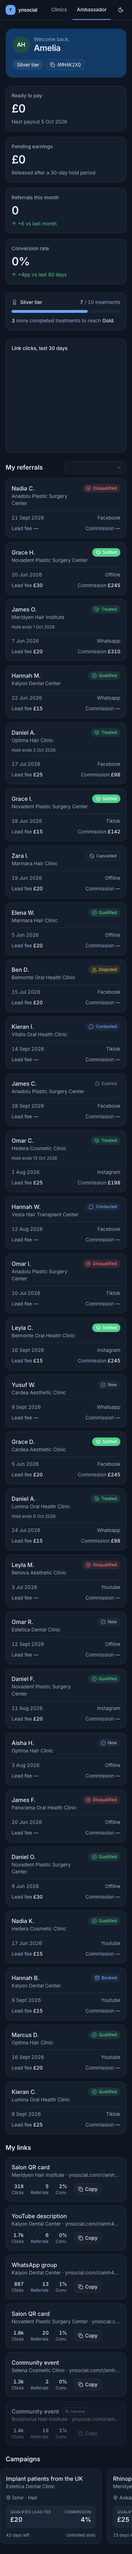
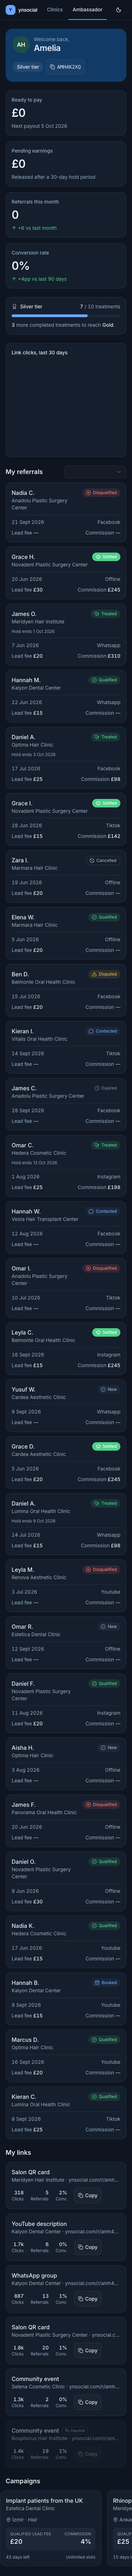
Compliance pass: 44px touch targets, press feedback, shadow levels
Went back through docs/02-TASARIM-YONU.md's mobile/accessibility tables
line by line against the actual code instead of trusting memory. Fixed:

- Touch targets under 44px: the shared Button component's sm/default/icon
  sizes were shadcn's stock 32-36px. Now 44px below the sm (640px)
  breakpoint, back to the tighter desktop scale above it. Pagination's
  page-number buttons and the view-mode toggle (raw buttons, not the
  shared component) got the same fix, plus the filter chip remove button's
  hit area was expanded via negative margins without growing the chip.
- No press feedback anywhere: active:scale-* was in the original token
  plan but never wired up. Added to Button (covers the whole app), the
  clinic card, and the hero stat tiles.
- Three shadow levels in practice: ClinicCard hover used shadow-md, the
  stat tiles used shadow-lg — an inconsistency, not an intentional third
  tier. Both now use shadow-md; shadow-sm stays for static elevation.

diff --git a/src/components/ui/button.tsx b/src/components/ui/button.tsx
@@ -4,7 +4,7 @@ import { cn } from "@/lib/utils"
 import { Slot } from "radix-ui"
 
 const buttonVariants = cva(
-  "inline-flex shrink-0 items-center justify-center gap-2 rounded-md text-sm font-medium whitespace-nowrap transition-all outline-none focus-visible:border-ring focus-visible:ring-[3px] focus-visible:ring-ring/50 disabled:pointer-events-none disabled:opacity-50 aria-invalid:border-destructive aria-invalid:ring-destructive/20 dark:aria-invalid:ring-destructive/40 [&_svg]:pointer-events-none [&_svg]:shrink-0 [&_svg:not([class*='size-'])]:size-4",
+  "inline-flex shrink-0 items-center justify-center gap-2 rounded-md text-sm font-medium whitespace-nowrap transition-all outline-none focus-visible:border-ring focus-visible:ring-[3px] focus-visible:ring-ring/50 active:scale-[0.97] disabled:pointer-events-none disabled:opacity-50 disabled:active:scale-100 aria-invalid:border-destructive aria-invalid:ring-destructive/20 dark:aria-invalid:ring-destructive/40 [&_svg]:pointer-events-none [&_svg]:shrink-0 [&_svg:not([class*='size-'])]:size-4",
   {
     variants: {
       variant: {
@@ -19,15 +19,18 @@ const buttonVariants = cva(
           "hover:bg-accent hover:text-accent-foreground dark:hover:bg-accent/50",
         link: "text-primary underline-offset-4 hover:underline",
       },
+      // Heights step down at `sm` (640px): 44px is the mobile touch-target
+      // floor from docs/02-TASARIM-YONU.md, but a mouse doesn't need it, so
+      // desktop keeps the tighter shadcn scale.
       size: {
-        default: "h-9 px-4 py-2 has-[>svg]:px-3",
+        default: "h-11 px-4 py-2 has-[>svg]:px-3 sm:h-9",
         xs: "h-6 gap-1 rounded-md px-2 text-xs has-[>svg]:px-1.5 [&_svg:not([class*='size-'])]:size-3",
-        sm: "h-8 gap-1.5 rounded-md px-3 has-[>svg]:px-2.5",
-        lg: "h-10 rounded-md px-6 has-[>svg]:px-4",
-        icon: "size-9",
+        sm: "h-11 gap-1.5 rounded-md px-3 has-[>svg]:px-2.5 sm:h-8",
+        lg: "h-11 rounded-md px-6 has-[>svg]:px-4",
+        icon: "size-11 sm:size-9",
         "icon-xs": "size-6 rounded-md [&_svg:not([class*='size-'])]:size-3",
-        "icon-sm": "size-8",
-        "icon-lg": "size-10",
+        "icon-sm": "size-11 sm:size-8",
+        "icon-lg": "size-11",
       },
     },
     defaultVariants: {

diff --git a/src/components/clinics/trust-stats.tsx b/src/components/clinics/trust-stats.tsx
@@ -32,7 +32,7 @@ export function TrustStats({ clinics }: { clinics: Clinic[] }) {
       {stats.map((stat) => (
         <div
           key={stat.label}
-          className="flex items-center gap-3 rounded-lg border border-hero-tile-border bg-hero-tile px-3.5 py-3 backdrop-blur-sm transition-[transform,box-shadow] duration-150 hover:-translate-y-0.5 hover:shadow-lg"
+          className="flex items-center gap-3 rounded-lg border border-hero-tile-border bg-hero-tile px-3.5 py-3 backdrop-blur-sm transition-[transform,box-shadow] duration-150 hover:-translate-y-0.5 hover:shadow-md active:scale-95"
         >
           <span className="flex size-9 shrink-0 items-center justify-center rounded-md bg-hero-icon text-hero-text">
             <stat.icon className="size-4" aria-hidden="true" />

diff --git a/src/components/clinics/clinic-card.tsx b/src/components/clinics/clinic-card.tsx
@@ -43,7 +43,7 @@ export function ClinicCard({ clinic, variant, enterIndex }: ClinicCardProps) {
     <article
       style={{ ...enterStyle, ...identityColorStyle(clinic.id) }}
       className={cn(
-        "identity-accent-border group flex h-full overflow-hidden rounded-lg border border-l-4 border-border bg-surface transition-[transform,box-shadow] duration-150 hover:-translate-y-1 hover:shadow-md",
+        "identity-accent-border group flex h-full overflow-hidden rounded-lg border border-l-4 border-border bg-surface transition-[transform,box-shadow] duration-150 hover:-translate-y-1 hover:shadow-md active:translate-y-0 active:scale-95 active:shadow-sm",
         enterIndex != null && "animate-card-in",
         variant === "grid" ? "flex-col" : "flex-col sm:flex-row"
       )}

diff --git a/src/components/clinics/active-filter-chips.tsx b/src/components/clinics/active-filter-chips.tsx
@@ -77,7 +77,7 @@ export function ActiveFilterChips({ filters, priceBounds, onChange }: ActiveFilt
             type="button"
             onClick={chip.onRemove}
             aria-label={`Remove filter ${chip.label}`}
-            className="flex size-5 items-center justify-center rounded-full text-text-muted hover:bg-surface-2 hover:text-text"
+            className="-my-1.5 -mr-1 flex size-8 items-center justify-center rounded-full text-text-muted transition-transform duration-150 hover:bg-surface-2 hover:text-text active:scale-90"
           >
             <X className="size-3.5" aria-hidden="true" />
           </button>

diff --git a/src/components/clinics/pagination.tsx b/src/components/clinics/pagination.tsx
@@ -51,7 +51,7 @@ export function Pagination({ page, totalPages, onChange }: PaginationProps) {
             aria-current={entry === page ? "page" : undefined}
             onClick={() => onChange(entry)}
             className={cn(
-              "tabular flex size-8 items-center justify-center rounded-md text-sm font-medium",
+              "tabular flex size-11 items-center justify-center rounded-md text-sm font-medium transition-transform duration-150 active:scale-90 sm:size-8",
               entry === page
                 ? "bg-primary text-text-on-primary"
                 : "text-text hover:bg-surface-2"

diff --git a/src/components/clinics/view-toggle.tsx b/src/components/clinics/view-toggle.tsx
@@ -30,7 +30,7 @@ export function ViewToggle({
           aria-pressed={value === mode}
           onClick={() => onChange(mode)}
           className={cn(
-            "flex size-8 items-center justify-center rounded transition-colors duration-150",
+            "flex size-11 items-center justify-center rounded transition-[background-color,color,transform] duration-150 active:scale-90 sm:size-8",
             value === mode
               ? "bg-primary text-text-on-primary"
               : "text-text-muted hover:bg-surface-2 hover:text-text"

diff --git a/README.md b/README.md
@@ -413,6 +413,30 @@ competing visually with the trust-first tone the brief asks for.
   the "modern, uncluttered" brief, but a sidebar would scale better if
   more filter dimensions were added later.
 
+## A compliance pass against the brief's own checklist
+
+Before calling this done, I went back through `docs/02-TASARIM-YONU.md`'s
+mobile and accessibility tables line by line against the actual code,
+rather than trusting memory. Found and fixed:
+
+- **Touch targets under 44px.** The shared `Button` component's `sm`,
+  `default` and `icon`/`icon-sm` sizes were shadcn's stock 32–36px —
+  fine for a mouse, not for the "44×44px minimum" the brief states for
+  mobile. They now step up to 44px below the `sm` (640px) breakpoint and
+  back down to the tighter desktop scale above it, so phones get real
+  touch targets without bloating the desktop UI. Pagination's page-number
+  buttons and the grid/list view toggle (raw buttons, not using the shared
+  component) got the same treatment.
+- **No press feedback anywhere.** `active:scale-*` was in the design token
+  plan (docs/02, "dokunma geri bildirimi") but never actually wired up.
+  Added to the `Button` component (covers every button in the app in one
+  place), `ClinicCard`, and the hero's stat tiles.
+- **Three shadow levels in practice, not two.** `ClinicCard`'s hover used
+  `shadow-md`, the hero stat tiles' hover used `shadow-lg` — an
+  inconsistency, not a deliberate second tier. Both now use `shadow-md`;
+  `shadow-sm` stays reserved for static resting elevation (the nav bar,
+  the chart tooltip).
+
 ## Photo credits
 
 The 9 category photos in `public/images/clinics/` and the `/clinics` hero
